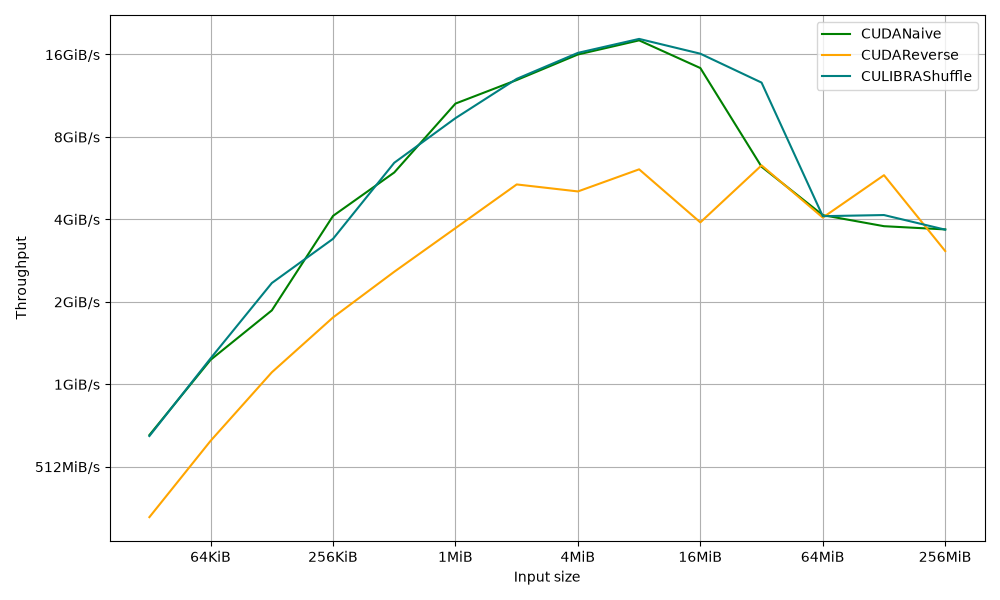
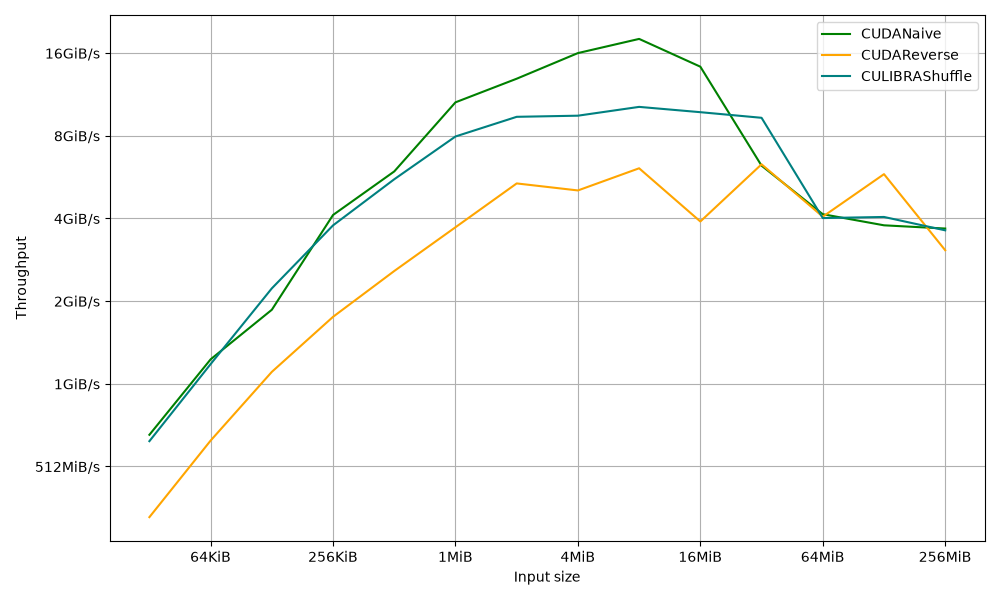
more testing on cuda

diff --git a/Src/algorithms/CULIBRAShuffle/CULIBRAShuffle_old.hpp b/Src/algorithms/CULIBRAShuffle/CULIBRAShuffle_old.hpp
@@ -1,0 +1,238 @@
+#ifndef _CULIBRA_SHUFFLE_HPP
+#define _CULIBRA_SHUFFLE_HPP
+#include "cuda_runtime.h"
+#include <cstdio>
+#include <cstdlib>
+
+/* LOG_BLOCK_WIDTH should follow the relation 2*LBW < 18 -
+ * log_2(sizeof(T)) so that each buffer fits inside an L1 cache
+ */
+#include <cuda_runtime_api.h>
+#include <driver_types.h>
+#include <stdio.h>
+#include <vector>
+
+#define THREAD_LIMIT 32
+#ifndef gpuErrcheck
+#define gpuErrcheck(ans)                                                                 \
+    {                                                                                    \
+        gpuAssert((ans), __FILE__, __LINE__);                                            \
+    }
+inline void gpuAssert(cudaError_t code, const char *file, int line, bool abort = true) {
+    if (code != cudaSuccess) {
+        fprintf(stderr, "GPUassert: %s %s %d\n", cudaGetErrorString(code), file, line);
+        if (abort)
+            exit(code);
+    }
+}
+#endif
+template <const char W> __host__ __device__ int reverse(int x) {
+    int reversed = 0;
+    for (int j = 0; j < W; j++) // log2(N) = 3 bits needed to represent indices
+        reversed = (reversed << 1) | (x >> j & 1);
+    return reversed;
+}
+template <typename T, unsigned char LOG_SIZE> __device__ void libra(T *signal) {
+    int lim = ((1ul << LOG_SIZE) - (1ul << (LOG_SIZE / 2))) / 2;
+    for (int id = threadIdx.x; id < lim; id += blockDim.x) {
+        // calculate index within the table
+        int offset = 0;
+        int col = 1;
+        int row = 0;
+        for (int i = 1; i < (1 << (LOG_SIZE / 2)); i++) {
+            int ri = reverse<LOG_SIZE / 2>(i);
+            if (id - offset >= 0) {
+                col = i;
+                row = id - offset;
+            }
+            offset += ri;
+        }
+        int up = row;
+        int pu = reverse<LOG_SIZE / 2>(row);
+        int esab = reverse<LOG_SIZE / 2>(col);
+        if (LOG_SIZE % 2) {
+            {
+                int index = (up << ((LOG_SIZE / 2) + 1)) | col;
+                int xendi = (esab << ((LOG_SIZE / 2) + 1)) | pu;
+                // Swap
+                T tmp = signal[index];
+                signal[index] = signal[xendi];
+                signal[xendi] = tmp;
+            }
+            {
+                int index = (up << ((LOG_SIZE / 2) + 1)) | 1 << (LOG_SIZE / 2) | col;
+                int xendi = (esab << ((LOG_SIZE / 2) + 1)) | 1 << (LOG_SIZE / 2) | pu;
+                // Swap
+                T tmp = signal[index];
+                signal[index] = signal[xendi];
+                signal[xendi] = tmp;
+            }
+        } else {
+            int index = (up << (LOG_SIZE / 2)) | col;
+            int xendi = (esab << (LOG_SIZE / 2)) | pu;
+            // Swap
+            T tmp = signal[index];
+            signal[index] = signal[xendi];
+            signal[xendi] = tmp;
+        }
+    }
+}
+
+/*
+ * pages[] holds pairs of pages to be swapped at pages[2k] and
+ * pages[2k + 1] GridDim.x == 2 * num_pairs
+ * or pages[] holds symmetrical pages
+ * and gridDim is the number of pages
+ */
+template <typename T, unsigned char LOG_N, unsigned char LOG_BLOCK_WIDTH>
+__device__ void mem2buffer(unsigned int page, const T *__restrict__ src,
+                           T *__restrict__ dst) {
+    constexpr unsigned BLOCK_SIZE = 1u << LOG_BLOCK_WIDTH;
+    for (unsigned a = threadIdx.x; a < BLOCK_SIZE; a += blockDim.x) {
+        unsigned src_base = (a << (LOG_N - LOG_BLOCK_WIDTH)) | (page << LOG_BLOCK_WIDTH);
+        unsigned dst_base = a << LOG_BLOCK_WIDTH;
+        for (unsigned i = 0; i < BLOCK_SIZE; i++) {
+            dst[dst_base + i] = src[src_base + i];
+        }
+    }
+}
+template <typename T, unsigned char LOG_N, unsigned char LOG_BLOCK_WIDTH>
+__device__ void buffer2mem(unsigned int page, const T *__restrict__ src,
+                           T *__restrict__ dst) {
+    constexpr unsigned BLOCK_SIZE = 1u << LOG_BLOCK_WIDTH;
+    for (unsigned a = threadIdx.x; a < BLOCK_SIZE; a += blockDim.x) {
+        unsigned dst_base = (a << (LOG_N - LOG_BLOCK_WIDTH)) | (page << LOG_BLOCK_WIDTH);
+        unsigned src_base = a << LOG_BLOCK_WIDTH;
+        for (unsigned i = 0; i < BLOCK_SIZE; i++) {
+            dst[dst_base + i] = src[src_base + i];
+        }
+    }
+}
+template <typename T, unsigned char LOG_N, unsigned char LOG_BLOCK_WIDTH>
+__global__ void libra_batch(T *input, const unsigned *pages, T *scratch_pool) {
+    constexpr unsigned BUF_ELEMS = (1 << LOG_BLOCK_WIDTH) * (1 << LOG_BLOCK_WIDTH);
+    T *buf = scratch_pool + (unsigned long)blockIdx.x * BUF_ELEMS;
+    unsigned src_page = pages[blockIdx.x];
+    unsigned not_is_odd = blockIdx.x % 2 ? 0 : 1;
+    unsigned dst_page = pages[((blockIdx.x / 2) * 2) + not_is_odd];
+
+    mem2buffer<T, LOG_N, LOG_BLOCK_WIDTH>(src_page, input, buf);
+    __syncthreads();
+
+    libra<T, 2 * LOG_BLOCK_WIDTH>(buf);
+    __syncthreads();
+    buffer2mem<T, LOG_N, LOG_BLOCK_WIDTH>(dst_page, buf, input);
+}
+
+template <typename T, unsigned char LOG_N, unsigned char LOG_BLOCK_WIDTH>
+__global__ void libra_batch_diag(T *input, const unsigned *pages, T *scratch_pool) {
+    constexpr unsigned BUF_ELEMS = (1 << LOG_BLOCK_WIDTH) * (1 << LOG_BLOCK_WIDTH);
+    T *buf = scratch_pool + (unsigned long)blockIdx.x * BUF_ELEMS;
+    unsigned page = pages[blockIdx.x];
+
+    mem2buffer<T, LOG_N, LOG_BLOCK_WIDTH>(page, input, buf);
+    __syncthreads();
+
+    libra<T, 2 * LOG_BLOCK_WIDTH>(buf);
+    __syncthreads();
+    buffer2mem<T, LOG_N, LOG_BLOCK_WIDTH>(page, buf, input);
+}
+
+template <typename T, unsigned char LOG_N, unsigned char LOG_BLOCK_WIDTH>
+class CULIBRAShuffle {
+
+  public:
+    inline static void apply(T *__restrict input_h) {
+        T *input = 0;
+
+        gpuErrcheck(cudaSetDevice(0));
+        gpuErrcheck(cudaMalloc((void **)&input, N * sizeof(T)));
+#ifndef TESTING
+        gpuErrcheck(cudaMemcpy(input, input_h, N * sizeof(T), cudaMemcpyHostToDevice));
+#endif
+        int num_sm = 0;
+        int max_blocks_per_sm = 0;
+        gpuErrcheck(cudaDeviceGetAttribute(&num_sm, cudaDevAttrMultiProcessorCount, 0));
+        gpuErrcheck(cudaOccupancyMaxActiveBlocksPerMultiprocessor(
+            &max_blocks_per_sm, libra_batch<T, LOG_N, LOG_BLOCK_WIDTH>, THREAD_LIMIT, 0));
+        const unsigned hw_concurrency =
+            static_cast<unsigned>(((num_sm * max_blocks_per_sm) / 2) * 2);
+        static std::vector<unsigned> pages;
+        static std::vector<unsigned> diag;
+        static bool initialized = false;
+        unsigned b = 0;
+        if (!initialized) {
+            do {
+                unsigned rb = reverse<NUM_B_BITS>(b);
+                if (b != rb) {
+                    pages.push_back(b);
+                    pages.push_back(rb);
+                } else {
+                    diag.push_back(b);
+                }
+                b = gen_page(b);
+            } while (b);
+            initialized = true;
+        }
+        T *d_scratch = nullptr;
+        gpuErrcheck(cudaMalloc(&d_scratch,
+                               (unsigned long)hw_concurrency * BUF_ELEMS * sizeof(T)));
+
+        auto run = [&](std::vector<unsigned> &pages, bool is_diag) {
+            if (pages.empty())
+                return;
+            unsigned *d_pages = nullptr;
+            gpuErrcheck(cudaMalloc(&d_pages, pages.size() * sizeof(unsigned)));
+            gpuErrcheck(cudaMemcpy(d_pages, pages.data(), pages.size() * sizeof(unsigned),
+                                   cudaMemcpyHostToDevice));
+            unsigned total = static_cast<unsigned>(pages.size());
+            for (unsigned offset = 0; offset < total; offset += hw_concurrency) {
+                unsigned tile = std::min(hw_concurrency, total - offset);
+                if (is_diag) {
+                    libra_batch_diag<T, LOG_N, LOG_BLOCK_WIDTH>
+                        <<<tile, THREAD_LIMIT>>>(input, d_pages + offset, d_scratch);
+                } else {
+                    libra_batch<T, LOG_N, LOG_BLOCK_WIDTH>
+                        <<<tile, THREAD_LIMIT>>>(input, d_pages + offset, d_scratch);
+                }
+            }
+            gpuErrcheck(cudaDeviceSynchronize());
+            cudaFree(d_pages);
+        };
+        run(pages, false);
+        run(diag, true);
+        cudaFree(d_scratch);
+#ifdef TESTING
+        cudaMemcpy(input_h, input, N * sizeof(T), cudaMemcpyDeviceToHost);
+#endif
+        cudaFree(input);
+    }
+
+  private:
+    static const unsigned long N = 1ul << LOG_N;
+    static constexpr unsigned char NUM_B_BITS = LOG_N - (2 * LOG_BLOCK_WIDTH);
+    static constexpr unsigned long B_SIZE = 1ul << NUM_B_BITS;
+    static constexpr unsigned long BLOCK_SIZE = 1ul << LOG_BLOCK_WIDTH;
+    static constexpr unsigned long BUF_ELEMS = BLOCK_SIZE * BLOCK_SIZE;
+    inline static unsigned int gen_page(unsigned int prev) {
+        unsigned int is_odd = NUM_B_BITS % 2;
+        unsigned int hmax = 1 << (NUM_B_BITS / 2);
+        unsigned int mid_point = is_odd ? hmax & prev : 0;
+        unsigned int lo = prev & (hmax - 1);
+        unsigned int rlo = reverse<NUM_B_BITS / 2>(lo);
+        unsigned int up = prev >> ((NUM_B_BITS / 2) + is_odd);
+        // In case we reached the last value, return 0 to signal
+        // that there's no next value
+        if (prev == (1 << NUM_B_BITS) - 1)
+            return 0;
+        // If we've reached a symetrical point, go down a row
+        if (rlo == up) {
+            return 0 | mid_point | (lo + 1);
+        } else {
+            // Otherwise, move normally
+            return ((up + 1) << ((NUM_B_BITS / 2) + is_odd)) | mid_point | lo;
+        }
+    }
+};
+
+#endif

diff --git a/Src/algorithms/CULIBRAShuffle/CULIBRAShuffle.hpp b/Src/algorithms/CULIBRAShuffle/CULIBRAShuffle.hpp
@@ -32,25 +32,30 @@ __host__ __device__ inline static unsigned long reverse_bitwise(unsigned long x)
 }
 
 template <typename T, unsigned char LOG_N> __global__ void libra(T *__restrict__ signal) {
-    constexpr unsigned H_BITS = LOG_N / 2; // must be >= 1
-    constexpr unsigned MID_BITS = LOG_N - 2 * H_BITS;
-    constexpr unsigned H = 1u << H_BITS;
+    static_assert(LOG_N >= 2 && LOG_N / 2 <= 31, "unsupported size");
+    constexpr unsigned H_BITS = LOG_N / 2;
+    constexpr unsigned MID_BITS = LOG_N % 2;
+    constexpr unsigned long H = 1ul << H_BITS;
+    constexpr unsigned long TRI = H * (H - 1) / 2; // swaps per mid value
 
-    const unsigned lo = blockIdx.x * blockDim.x + threadIdx.x; // contiguous in memory
-    const unsigned u = blockIdx.y;
-    const unsigned mid = blockIdx.z;
-
-    if (lo >= H)
+    const unsigned long t = (unsigned long)blockIdx.x * blockDim.x + threadIdx.x;
+    if (t >= TRI) // only the last block has idle threads
         return;
-    const unsigned rlo = __brev(lo) >> (32 - H_BITS);
-    if (u >= rlo)
-        return; // swap each pair once
-    const unsigned ru = __brev(u) >> (32 - H_BITS);
+    const unsigned long mid = blockIdx.y; // 0 when LOG_N is even
 
-    const unsigned long index =
-        ((unsigned long)u << (H_BITS + MID_BITS)) | ((unsigned long)mid << H_BITS) | lo;
-    const unsigned long xendi =
-        ((unsigned long)rlo << (H_BITS + MID_BITS)) | ((unsigned long)mid << H_BITS) | ru;
+    // Invert t = r(r-1)/2 + u, with 0 <= u < r
+    unsigned long r = (unsigned long)((1.0 + sqrt(1.0 + 8.0 * (double)t)) * 0.5);
+    while (r * (r - 1) / 2 > t)
+        --r; // fix rounding in either direction
+    while (r * (r + 1) / 2 <= t)
+        ++r;
+    const unsigned long u = t - r * (r - 1) / 2;
+
+    const unsigned long rr = __brev((unsigned)r) >> (32 - H_BITS); // rev(r)
+    const unsigned long ru = __brev((unsigned)u) >> (32 - H_BITS); // rev(u)
+
+    const unsigned long index = (u << (H_BITS + MID_BITS)) | (mid << H_BITS) | rr;
+    const unsigned long xendi = (r << (H_BITS + MID_BITS)) | (mid << H_BITS) | ru;
 
     T tmp = signal[index];
     signal[index] = signal[xendi];
@@ -63,7 +68,7 @@ class CULIBRAShuffle {
         static_assert(LOG_N / 2 <= 15, "gridDim.y is limited to 65535");
         constexpr unsigned long N = 1ul << LOG_N;
         constexpr unsigned long H = 1ul << (LOG_N / 2);
-        constexpr unsigned MID_BITS = LOG_N % 2;
+        constexpr unsigned long TRI = H * (H - 1) / 2;
 
         T *input = nullptr;
         gpuErrcheck(cudaSetDevice(0));
@@ -73,8 +78,7 @@ class CULIBRAShuffle {
 #endif
 
         dim3 block(THREAD_LIMIT);
-        dim3 grid((H + THREAD_LIMIT - 1) / THREAD_LIMIT, H, 1u << MID_BITS);
-
+        dim3 grid((TRI + THREAD_LIMIT - 1) / THREAD_LIMIT, 1u << (LOG_N % 2));
         libra<T, LOG_N><<<grid, block>>>(input);
         gpuErrcheck(cudaGetLastError());
         gpuErrcheck(cudaDeviceSynchronize());
